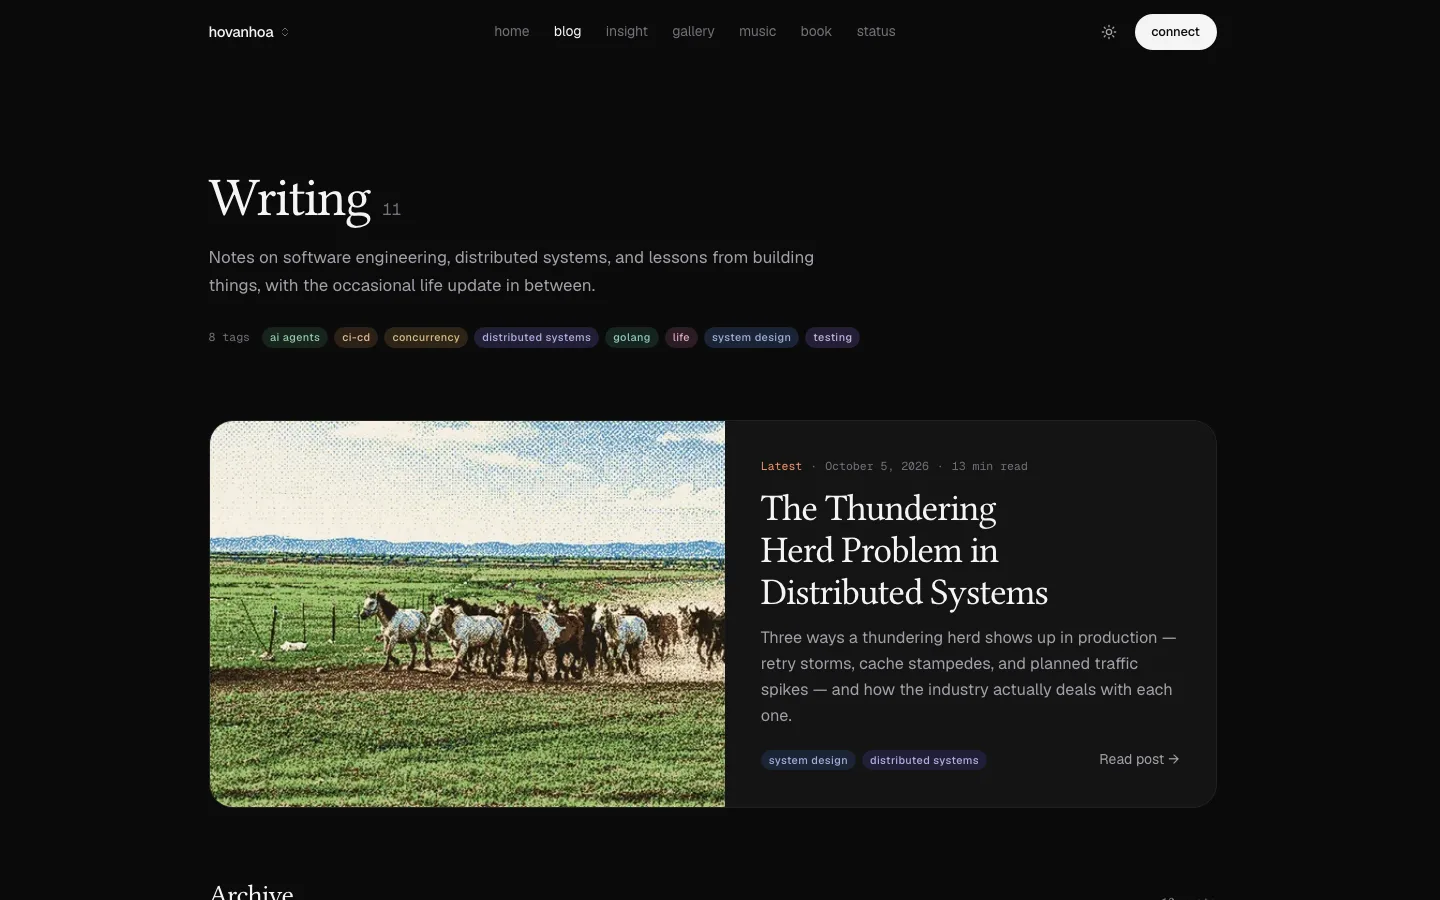
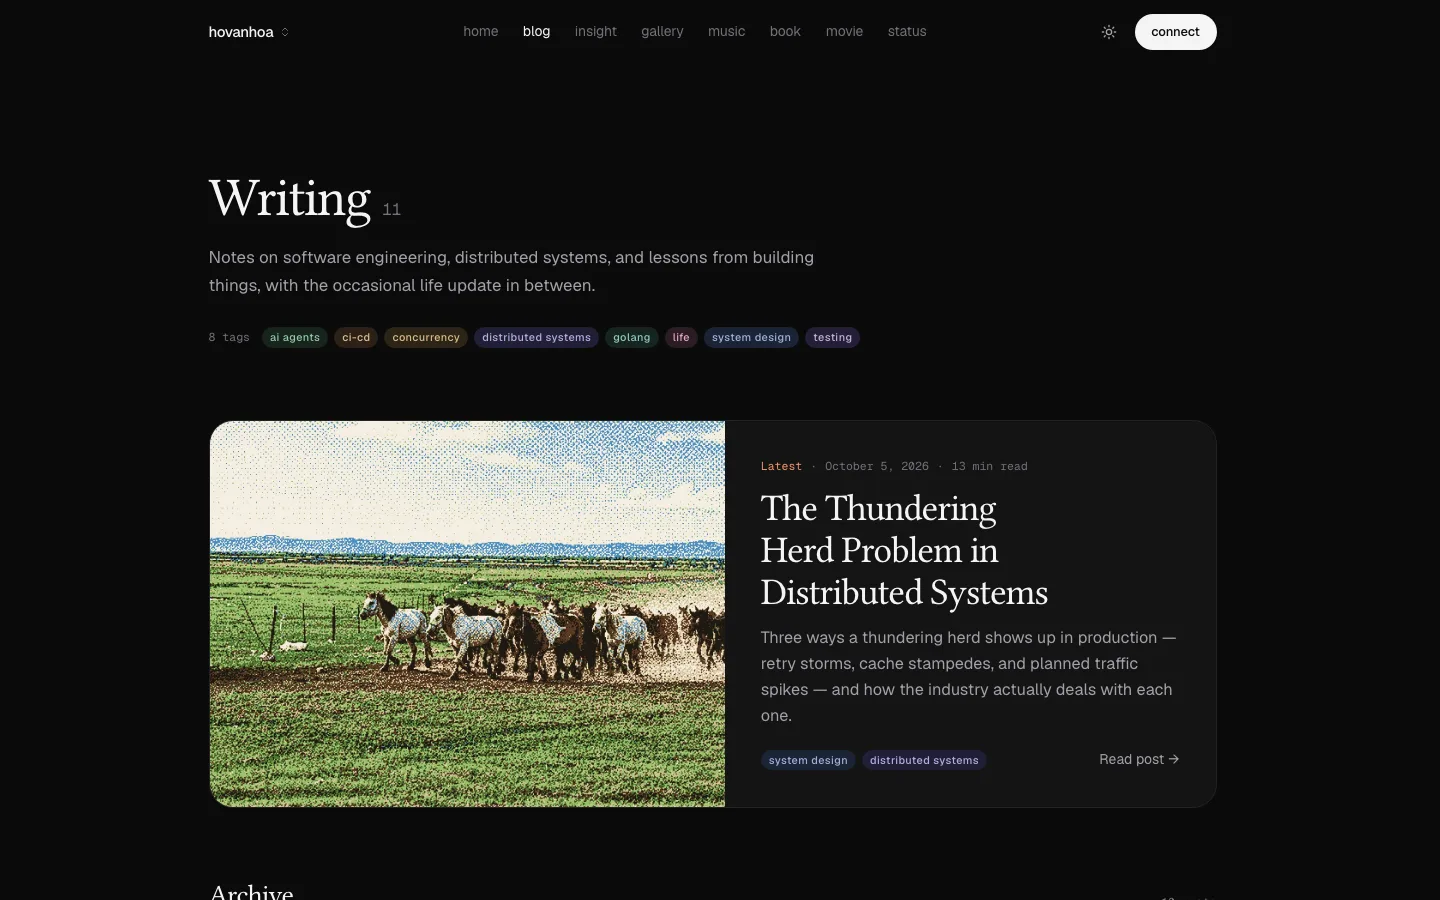
Add movie.hovanhoa.net to The family and the ecosystem graph
The family showcase gets a movie entry (Film, brick-red tone) with its
own generated dither backdrop and light/dark previews; the ecosystem
graph gets a movie node and the Wikipedia poster source it pulls from.

capture-family.mjs now sets the theme cookie on .hovanhoa.net — the
shared-theme boot script deletes host-only theme cookies, so every dark
preview was coming out light. All previews are re-captured, which also
puts movie in the nav shown inside each preview. generate-family-art.mjs
can now render a single site's backdrop.

Changed region(s): [[0.1562, 0.5911, 0.5, 0.9022], [0.2812, 0.4667, 0.5, 0.56], [0.3125, 0.0311, 0.625, 0.0622]]

diff --git a/src/components/redesign/ecosystem-graph.tsx b/src/components/redesign/ecosystem-graph.tsx
@@ -122,6 +122,12 @@ const Book = (p: IconProps) => (
         <path d="M20 5.5c0-.8-.7-1.5-1.5-1.5H13a3 3 0 0 0-3 3v13a2.5 2.5 0 0 1 2.5-2.5H20V5.5Z" />
     </svg>
 )
+const Film = (p: IconProps) => (
+    <svg viewBox="0 0 24 24" fill="none" stroke="currentColor" strokeWidth="2" strokeLinecap="round" strokeLinejoin="round" {...p}>
+        <rect x="3" y="3" width="18" height="18" rx="2" />
+        <path d="M7 3v18M17 3v18M3 8h4M3 12h18M3 16h4M17 8h4M17 16h4" />
+    </svg>
+)
 const Library = (p: IconProps) => (
     <svg viewBox="0 0 24 24" fill="none" stroke="currentColor" strokeWidth="2" strokeLinecap="round" strokeLinejoin="round" {...p}>
         <path d="M3 21h18M4 21V10l8-6 8 6v11M9 21v-7h6v7" />
@@ -167,18 +173,20 @@ const RAW_NODES: { id: string; x: number; y: number; data: GNodeData }[] = [
     { id: 'music', x: 150, y: 450, data: { label: 'music', sub: 'now playing', kind: 'app', Icon: Note, href: 'https://music.hovanhoa.net', live: true } },
     { id: 'info', x: 360, y: 350, data: { label: 'info', sub: 'contact card', kind: 'app', Icon: Card, href: 'https://info.hovanhoa.net', live: true } },
     { id: 'book', x: 620, y: 30, data: { label: 'book', sub: 'bookshelf', kind: 'app', Icon: Book, href: 'https://book.hovanhoa.net', live: true } },
+    { id: 'movie', x: 690, y: 300, data: { label: 'movie', sub: 'watch log', kind: 'app', Icon: Film, href: 'https://movie.hovanhoa.net', live: true } },
     // external services
     { id: 'wakatime', x: 380, y: 30, data: { label: 'wakatime', sub: 'coding stats', kind: 'service', Icon: Clock } },
     { id: 'github', x: 560, y: 250, data: { label: 'github', sub: 'actions / repos', kind: 'service', Icon: GitHub } },
     { id: 'cloudinary', x: 30, y: 350, data: { label: 'cloudinary', sub: 'image cdn', kind: 'service', Icon: Box } },
     { id: 'spotify', x: 330, y: 500, data: { label: 'spotify', sub: 'listening api', kind: 'service', Icon: Note2 } },
+    { id: 'wikipedia', x: 720, y: 430, data: { label: 'wikipedia', sub: 'film posters', kind: 'service', Icon: Library } },
     { id: 'openlibrary', x: 680, y: 150, data: { label: 'openlibrary', sub: 'book covers', kind: 'service', Icon: Library } },
     // platform (used by everything)
     { id: 'vercel', x: 470, y: 360, data: { label: 'vercel', sub: 'hosting · ci', kind: 'platform', Icon: Vercel } },
     { id: 'cloudflare', x: 560, y: 440, data: { label: 'cloudflare', sub: 'dns · analytics', kind: 'platform', Icon: Cloud } },
 ]
 
-const APPS = ['home', 'blog', 'insight', 'status', 'gallery', 'music', 'info', 'book']
+const APPS = ['home', 'blog', 'insight', 'status', 'gallery', 'music', 'info', 'book', 'movie']
 
 const RAW_EDGES: { s: string; t: string; kind: Kind; dir?: boolean }[] = [
     // every app is hosted on vercel + fronted by cloudflare
@@ -199,6 +207,7 @@ const RAW_EDGES: { s: string; t: string; kind: Kind; dir?: boolean }[] = [
     { s: 'gallery', t: 'cloudinary', kind: 'data', dir: true },
     { s: 'music', t: 'spotify', kind: 'data', dir: true },
     { s: 'book', t: 'openlibrary', kind: 'data', dir: true },
+    { s: 'movie', t: 'wikipedia', kind: 'data', dir: true },
     { s: 'status', t: 'github', kind: 'data', dir: true },
     // home cross-links to every app (the nav)
     ...APPS.filter((a) => a !== 'home').map((a) => ({

diff --git a/src/components/family-showcase.tsx b/src/components/family-showcase.tsx
@@ -4,6 +4,7 @@ import { type CSSProperties, useEffect, useState } from 'react'
 import {
     RiBookOpenLine,
     RiBookShelfLine,
+    RiFilmLine,
     RiImageLine,
     RiMusic2Line,
     RiPulseLine,
@@ -16,6 +17,7 @@ import {
     BOOK_URL,
     GALLERY_URL,
     INSIGHT_URL,
+    MOVIE_URL,
     MUSIC_URL,
     STATUS_URL,
 } from '@/constants'
@@ -74,6 +76,14 @@ const FAMILY: FamilyApp[] = [
         href: BOOK_URL,
         tone: '#2f6a4c',
         icon: RiBookShelfLine,
+    },
+    {
+        name: 'movie',
+        tag: 'Film',
+        desc: 'A watch log of every saga I follow — seen, up next, and coming soon.',
+        href: MOVIE_URL,
+        tone: '#a24a3c',
+        icon: RiFilmLine,
     },
     {
         name: 'status',
